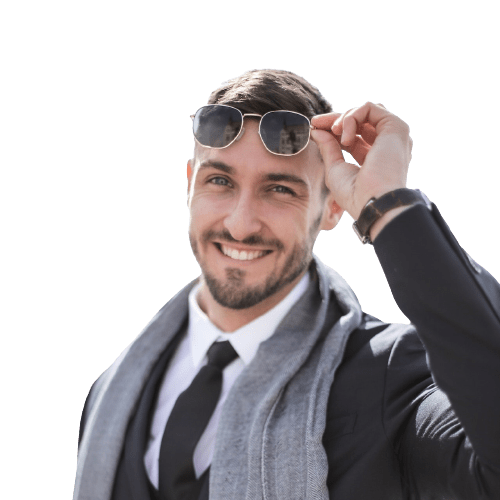
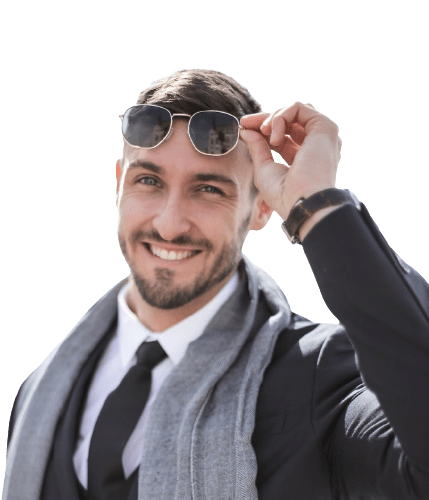
ADD About Comp & EDIT: man-2 pic & Button Comp

diff --git a/src/components/About.jsx b/src/components/About.jsx
@@ -1,0 +1,29 @@
+import { ImageMan2 } from "data/imgs-imports";
+
+import { Button } from "./index";
+
+const About = () => (
+    <section id="about" className="relative w-screen py-32 bg-[#222]">
+        <div className="container grid place-content-center grid-cols-1 lg:grid-cols-2 gap-14 lg:gap-0 items-start">
+            <div className="w-full h-full px-4 text-center lg:text-start relative flex flex-col justify-center">
+                <h4 className="text-white text-5xl font-[Caveat]">Thomas David</h4>
+
+                <p className="mt-2 mb-6 text-light-beige text-center lg:text-start text-3xl capitalize font-[Caveat]">freelance web developer</p>
+
+                <p className="text-white text-lg leading-7">
+                    Lorem ipsum, dolor sit amet consectetur adipisicing elit. Inventore, dolorum odio magni possimus corrupti molestiae labore voluptatum ut autem deleniti facilis tempora commodi dolores debitis repellendus excepturi nisi? Quisquam suscipit iste facere molestiae saepe voluptates.
+                </p>
+
+                <div className="w-full mx-auto flex justify-center lg:justify-start items-center">
+                    <Button hyperRef={"contact"} text={"Contact Me"} margin={"mt-8"} />
+                </div>
+            </div>
+
+            <div className="w-[70%] lg:w-[60%] mx-auto rounded-full flex justify-center items-center">
+                <img src={ImageMan2} alt="Man" className="w-full rounded-full object-cover" draggable="false" />
+            </div>
+        </div>
+    </section>
+)
+
+export default About;

diff --git a/src/components/Button.jsx b/src/components/Button.jsx
@@ -1,8 +1,7 @@
-const Button = ({ text, margin = "" }) => (
-    <button className={`py-2 px-12 ${margin} rounded-lg text-lg text-white bg-dark-beige
-             transition hover:bg-[#7d674c]`}>
+const Button = ({ text, margin = "", hyperRef }) => (
+    <a href={`#${hyperRef}`} className={`py-2 px-12 ${margin} rounded-lg text-lg text-white bg-dark-beige transition hover:bg-[#7d674c]`}>
         {text}
-    </button>
+    </a>
 );
 
 export default Button;

diff --git a/src/App.jsx b/src/App.jsx
@@ -1,4 +1,4 @@
-import { Navbar, Landing, Branding } from "./components/index";
+import { Navbar, Landing, Branding, About } from "./components/index";
 
 function App() {
   return (
@@ -6,6 +6,7 @@ function App() {
       <Navbar />
       <Landing />
       <Branding />
+      <About />
     </div>
   );
 }

diff --git a/src/components/index.js b/src/components/index.js
@@ -9,3 +9,5 @@ export { default as Button } from "./Button";
 export { default as SocialMedia } from "./SocialMedia";
 
 export { default as Branding } from "./Branding";
+
+export { default as About } from "./About";
